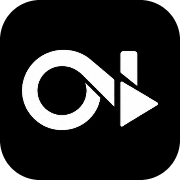
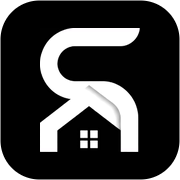
Update 3.5

diff --git a/assets/theme.css b/assets/theme.css
@@ -235,15 +235,17 @@ h1.doc-title {
 
 
 /* ── The mark ──────────────────────────────────────────────────
-   Cut from gallery/logo of sitehouse.png at its own proportions —
-   345 × 205, so 1.683 : 1. Two files rather than one recoloured by
-   filter: the artwork is white, and a white mark is invisible on a
-   light page, so the ink cut is a real asset rather than an effect. */
+   Cut from the SITEHOUSE lockup at its own proportions — the glyph
+   alone, 175 × 217, so 0.807 : 1. It is portrait where the old ON mark
+   was landscape, so every box below is width-derived from its height.
+   Two files rather than one recoloured by filter: the artwork is
+   white, and a white mark is invisible on a light page, so the ink cut
+   is a real asset rather than an effect. */
 .brand-mark {
-  width: 2.61em; height: 1.55em; flex: none; display: block;
+  width: 1.25em; height: 1.55em; flex: none; display: block;
   background: url("brand/sitehouse-mark-ink.png") center / contain no-repeat;
 }
 :root[data-theme="dark"] .brand-mark {
   background-image: url("brand/sitehouse-mark.png");
 }
-.brand-mark--nav { width: 2.52em; height: 1.5em; }
+.brand-mark--nav { width: 1.21em; height: 1.5em; }

diff --git a/assets/footer.js b/assets/footer.js
@@ -39,7 +39,7 @@
     /* This sheet is injected into the document head, so the URL resolves
        against the page rather than against assets/ — it needs the full
        path where the real stylesheets need only "brand/". */
-    '.ft-dot{width:2.28rem;height:1.35rem;flex:none;display:block;' +
+    '.ft-dot{width:1.089rem;height:1.35rem;flex:none;display:block;' +
       'background:url("assets/brand/sitehouse-mark.png") center/contain no-repeat}' +
     '.ft-base{margin-top:2.5rem;padding-top:1.5rem;border-top:1px solid rgba(255,255,255,0.2);' +
       'display:flex;flex-wrap:wrap;gap:1rem 1.5rem;align-items:center;justify-content:space-between}' +

diff --git a/assets/auth.css b/assets/auth.css
@@ -815,7 +815,7 @@ body.auth #stepHelp { justify-content:flex-start; }
 /* The auth pages set the mark on the photograph, so it takes the white
    cut in both themes. */
 .home-mark .brand-mark--auth {
-  width: 2.52em; height: 1.5em; flex: none; display: block;
+  width: 1.21em; height: 1.5em; flex: none; display: block;
   background: url("brand/sitehouse-mark.png") center / contain no-repeat;
 }
 
